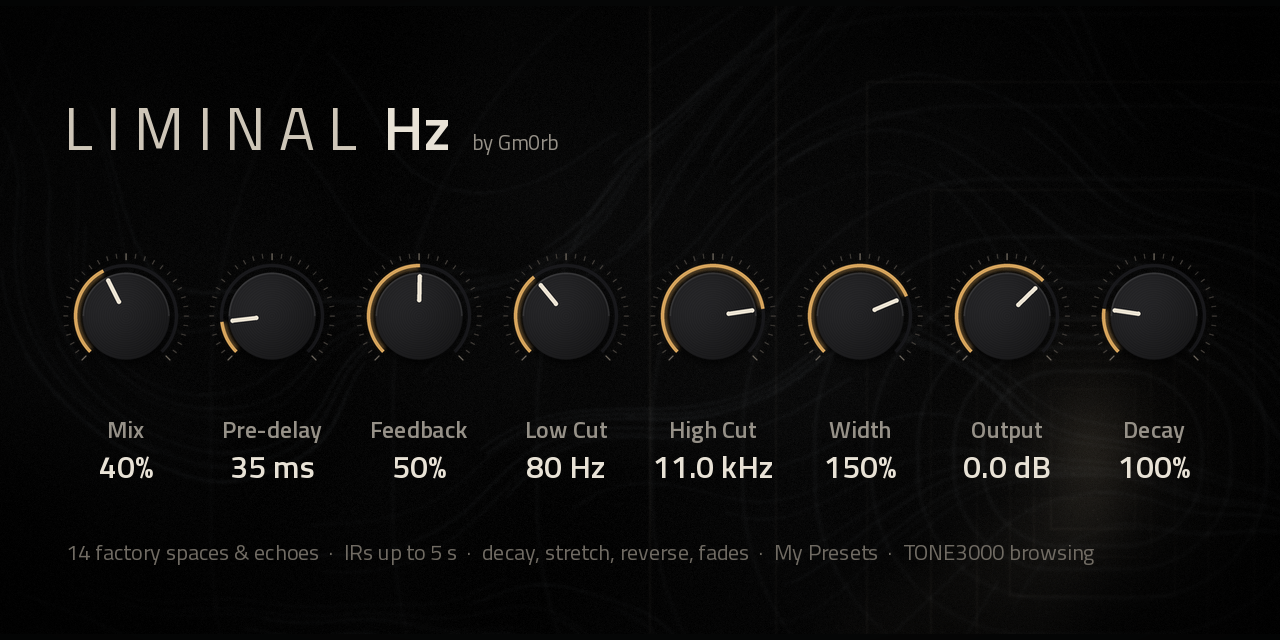
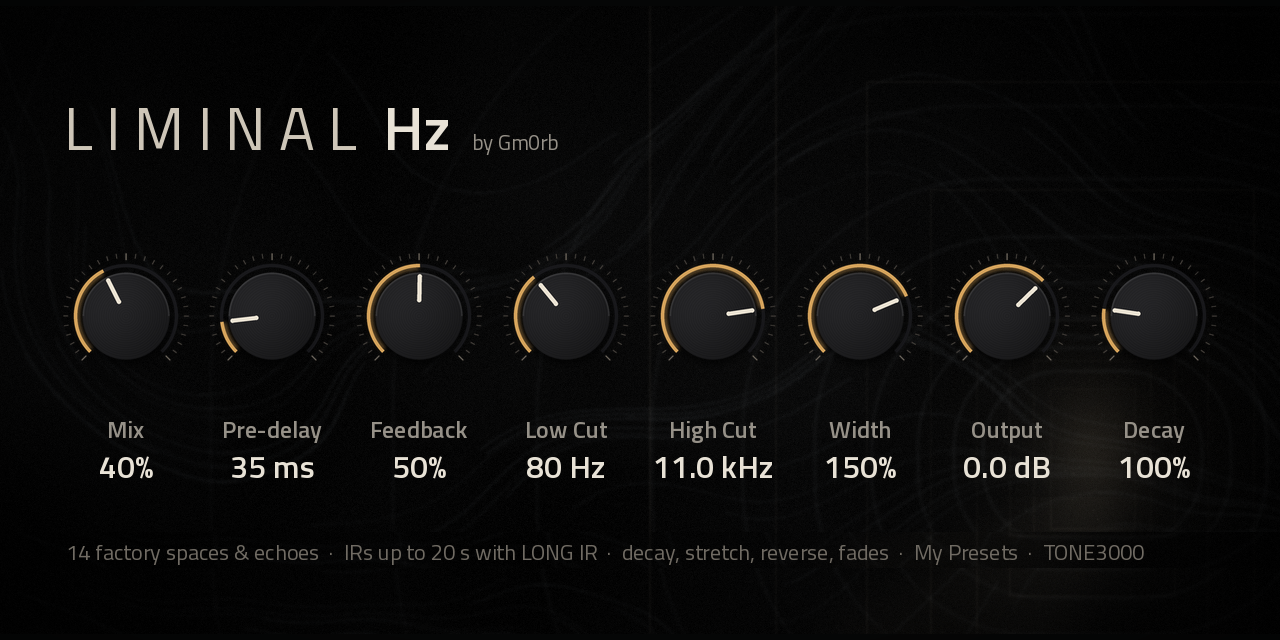
README images: the LONG IR button on the page, IR List and My Presets images; controls caption
The page, IR List and My Presets images show the LONG IR button and its status line (taken from
the built skin); the controls image's caption says IRs up to 20 s with LONG IR (also in
tools/make_banners.py); the README's page description names the button.

Claude-Session: https://claude.ai/code/session_019nRdHg98HMuDH1M236dh2W

Changed region(s): [[0.3438, 0.8438, 0.9062, 0.875]]

diff --git a/tools/make_banners.py b/tools/make_banners.py
@@ -89,7 +89,7 @@ for nm,val,v in knobs:
     cx=int(x+size/2); d.text((cx,438),nm,font=fS(24),fill=GR,anchor='ms'); d.text((cx,478),val,font=fS(32),fill=IV,anchor='ms')
     x+=size+gap
 wordmark(d, 64, 150, 60)
-d.text((66,560),'14 factory spaces & echoes  \u00b7  IRs up to 5 s  \u00b7  decay, stretch, reverse, fades  \u00b7  My Presets  \u00b7  TONE3000 browsing',font=fR(22),fill=DIM,anchor='ls')
+d.text((66,560),'14 factory spaces & echoes  \u00b7  IRs up to 20 s with LONG IR  \u00b7  decay, stretch, reverse, fades  \u00b7  My Presets  \u00b7  TONE3000',font=fR(22),fill=DIM,anchor='ls')
 im.convert('RGB').save(os.path.join(OUTD,'controls.png'))
 
 # 5. The lists and the phone pages (when their renders are given)

diff --git a/README.md b/README.md
@@ -21,7 +21,8 @@ One page, made for the MPC's touchscreen, with nothing hidden on other tabs:
   beside it; the IR in use with **◀ ▶** to step through the list, its pack and details; **PREV PACK / NEXT PACK** and
   **DELETE** (for your own IRs: it asks twice); and the TONE3000 strip with **BROWSE** and its status line.
 - **Right, the shape** of the sound, and the shaping knobs: **trim**, **fade** and **time** (Stretch, Decay, Reverse).
-- **Below**, the mix controls: **space**, **tone** and **out**.
+- **Below**, the mix controls: **space**, **tone** and **out**; in the corner, **LONG IR** and its status line (20 s IRs
+  on Gen 1: it asks twice, as it is CPU heavy).
 
 Behind it all, a doorway at the far end of an empty room.
 
